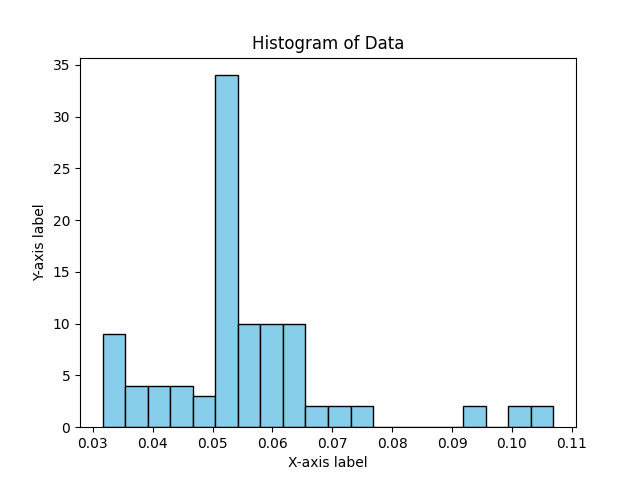
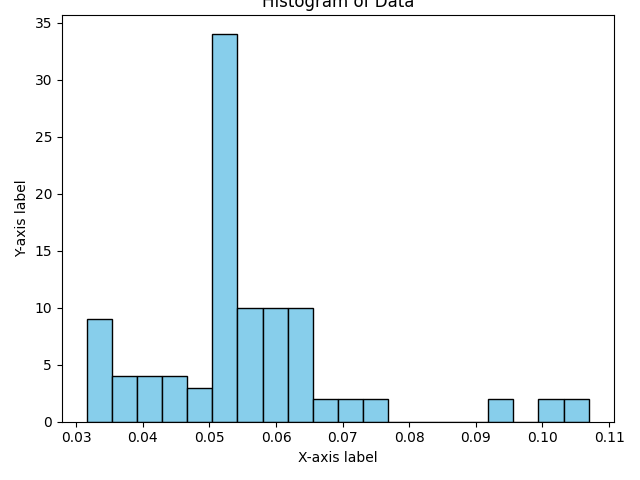
sistemata la sovrapposizione degli istrogrammi

diff --git a/analyzer.py b/analyzer.py
@@ -4,7 +4,7 @@ import matplotlib.pyplot as plt
 # read file of misure standard
 f = open("misure_da_prendere.txt", "r")
 stats = open("misure/stats.csv", "w")
-stats.write("index,media,devstd\n")
+stats.write("index,valore,media,devstd\n")
 measures_spoilt = f.readlines()  # newline to remove
 
 # Removing newline character from string
@@ -42,37 +42,36 @@ for x in measures:  # x is a std measure
 
     # Step 2: Read the CSV File
     df = pd.read_csv(file_path)  # Replace 'your_file.csv' with the actual file path
-    # #Step 4: Create Plots
-    # plt.figure(figsize=(10, 6))  # Optional: Set the figure size
-    # plt.plot(
-    #     df["index"].astype(int),
-    #     df["distance"].astype(float),
-    #     marker="o",
-    #     linestyle="-",
-    #     color="b",
-    # )
-    # plt.title("Misura a " + x + " cm")
-    # plt.xlabel("indice i")
-    # plt.ylabel("distanza cm")
-    # plt.grid(True)  # Optional: Add grid lines
+    #Step 4: Create Plots
+    plt.plot(
+        df["index"].astype(int),
+        df["distance"].astype(float),
+        marker="o",
+        linestyle="-",
+        color="b",
+    )
+    plt.title("Misura a " + str(float(x)/100)+ " m")
+    plt.xlabel("Indice misura")
+    plt.ylabel("Distanza misurata in m")
+    plt.tight_layout() 
+    plt.grid(True)  # Optional: Add grid lines
 
-    # # Step 5: Show or Save the Plot (Optional)
-    # plt.savefig("plots/output_plot_" + x + ".png")
-    # Calculate descriptive statistics for the 'distance' column
+    # Step 5: Show or Save the Plot (Optional)
+    plt.savefig("plots/output_plot_" + x + ".png")
     distance_stats = df["distance"].describe()
     mean_distance = distance_stats["mean"]
     median_distance = distance_stats["50%"]  # 50% corresponds to the median
     std_dev_distance = distance_stats["std"]
 
-    print(
-        distance_stats
-    )
+
+    # print(
+    #     distance_stats
+    # )
     
 
-    stats.write(str(float(x)/100.0) + "," + str(mean_distance) + "," + str(std_dev_distance)+ '\n')
+    stats.write(str(i) + "," + str(float(x)/100.0) + "," + str(mean_distance) + "," + str(std_dev_distance)+ '\n')
     i+=1
-    # Save the plot as PNG file
-    #plt.show()
+    plt.close()
 
     plt.hist(df["distance"], bins=20, color="skyblue", edgecolor="black")
     
@@ -80,20 +79,30 @@ for x in measures:  # x is a std measure
     # Add labels and title
     plt.xlabel("X-axis label")
     plt.ylabel("Y-axis label")
+    plt.tight_layout() 
     plt.title("Histogram of Data")
     plt.savefig("plots/output_plot_" + x + "_histogram.png")
+    plt.close()
     # plt.show()
 
 stats.close()
-plt.figure().clear()
 stats_df = pd.read_csv("misure/stats.csv")
 plt.figure(figsize=(10, 6))  # Optional: Set the figure size
+plt.plot(
+    stats_df["index"].astype(float),
+    stats_df["valore"].astype(float),
+    marker="o",
+    linestyle="-",
+    color="black",
+    label = "valore misurato",
+)
 plt.plot(
     stats_df["index"].astype(float),
     stats_df["media"].astype(float),
     marker="o",
     linestyle="-",
     color="b",
+    label = "media misure",
 )
 plt.plot(
     stats_df["index"].astype(float),
@@ -101,11 +110,16 @@ plt.plot(
     marker="o",
     linestyle="-",
     color="r",
+    label = "deviazione standard",
 )
-plt.xlabel("indice")
-plt.ylabel("stats")
+plt.xlabel("misura aspettata")
+plt.ylabel("media misurata")
+plt.legend()
 plt.grid(True)  # Optional: Add grid lines
 
 # Step 5: Show or Save the Plot (Optional)
 plt.savefig("plots/stats_plot.png")
+print(stats_df["devstd"].describe())
+print("La deviazione standard media: " + str(stats_df["devstd"].describe()["mean"]))
 plt.show()
+plt.close()
